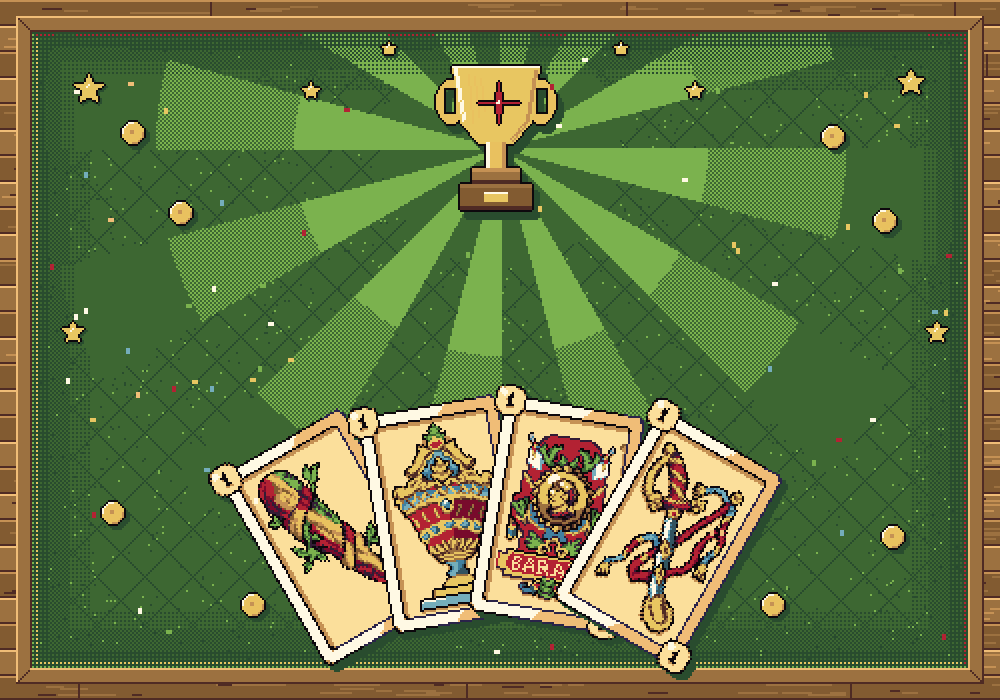
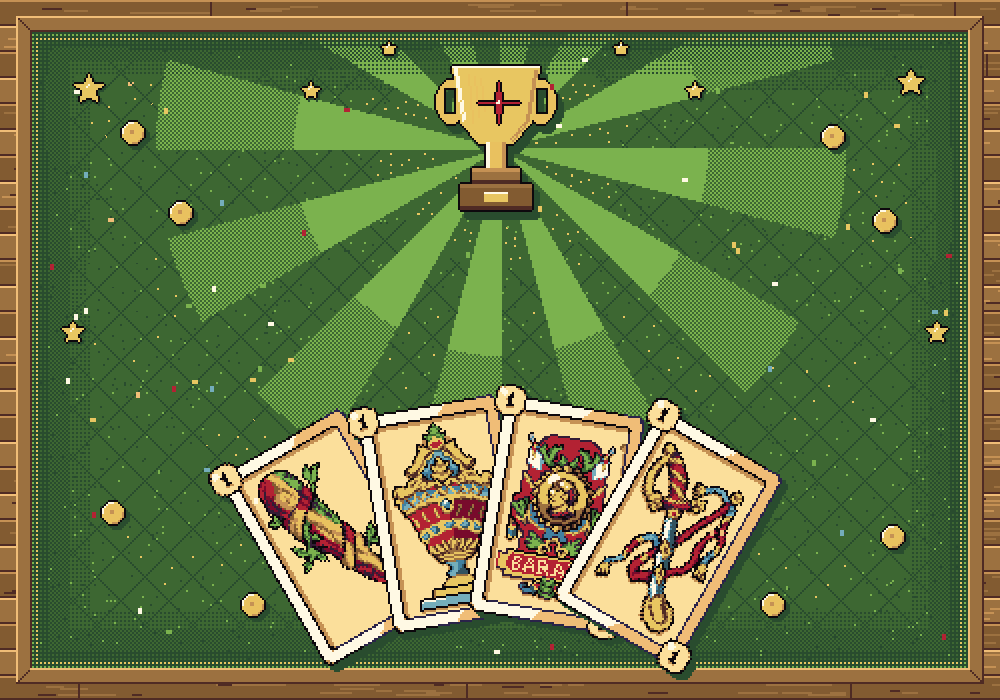
Add screen sliding sound effect

diff --git a/telas/menu.py b/telas/menu.py
@@ -28,6 +28,7 @@ from settings import (
     CAMINHO_BOTAO1,
     CAMINHO_BOTAO_CONFIRMAR,
     CAMINHO_MUSICA_MENU,
+    CAMINHO_SOM_SLIDE,
     CAMINHO_SOM_ROLLOVER,
     CAMINHO_SOM_CLICK,
     CAMINHO_SOM_TECLADO,
@@ -275,8 +276,10 @@ def mostrar_fade_transicao(tela, relogio):
 
 def animar_tela_deslizante(
         tela, relogio, imagem_origem, imagem_destino,
-        direcao=1, duracao=400
+        direcao=1, duracao=400, som_slide=None
 ):
+    if som_slide:
+        som_slide.play()
 
     inicio = pygame.time.get_ticks()
 
@@ -916,7 +919,8 @@ def mostrar_tela_nome(
     imagem_botao_confirmar,
     som_click,
     som_teclado,
-    imagem_origem
+    imagem_origem,
+    som_slide
 ):
     nome = ""
 
@@ -1084,7 +1088,8 @@ def mostrar_tela_nome(
                 relogio,
                 imagem_origem,
                 imagem_destino,
-                direcao=1
+                direcao=1,
+                som_slide=som_slide
             )
 
             transicao_iniciada = True
@@ -1158,6 +1163,8 @@ def iniciar_jogo():
     iniciar_musica_menu()
     som_teclado = carregar_som_teclado()
     som_rollover, som_click = carregar_sons_menu()
+    som_slide = pygame.mixer.Sound(str(CAMINHO_SOM_SLIDE))
+    som_slide.set_volume(0.20)
 
     tela = pygame.display.set_mode((LARGURA, ALTURA))
     pygame.display.set_caption(TITULO)
@@ -1215,6 +1222,7 @@ def iniciar_jogo():
     inicio_transicao = 0
     direcao_transicao = 1
     duracao_transicao = 300
+    som_transicao_tocado = False
 
     nome_jogador = None
 
@@ -1285,7 +1293,8 @@ def iniciar_jogo():
                                 imagem_botao_confirmar,
                                 som_click,
                                 som_teclado,
-                                tela.copy()
+                                tela.copy(),
+                                som_slide
                             )
 
                             if fechar_jogo:
@@ -1512,6 +1521,12 @@ def iniciar_jogo():
 
         if imagem_transicao_origem is not None:
 
+            if not som_transicao_tocado:
+                som_slide.play()
+                som_transicao_tocado = True
+
+            tempo_atual = pygame.time.get_ticks()
+
             tempo_atual = pygame.time.get_ticks()
             progresso = (
                                 tempo_atual - inicio_transicao
@@ -1540,6 +1555,7 @@ def iniciar_jogo():
 
             if progresso >= 1:
                 imagem_transicao_origem = None
+                som_transicao_tocado = False
 
         pygame.display.flip()
         relogio.tick(FPS)

diff --git a/settings.py b/settings.py
@@ -55,6 +55,7 @@ CAMINHO_MUSICA_PARTIDA = PASTA_SONS / "musica_partida.mp3"
 CAMINHO_MUSICA_VITORIA = PASTA_SONS / "musica_vitoria.mp3"
 CAMINHO_MUSICA_DERROTA = PASTA_SONS / "musica_derrota.mp3"
 
+CAMINHO_SOM_SLIDE = PASTA_SONS / "sliding_sound.mp3"
 CAMINHO_SOM_TECLADO = PASTA_SONS / "som_teclado.wav"
 CAMINHO_SOM_TOQUE = PASTA_SONS / "touching_card.mp3"
 CAMINHO_SOM_CARTA_JOGADOR = PASTA_SONS / "card_place1.mp3"
